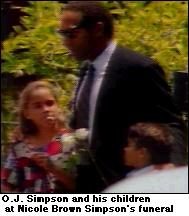
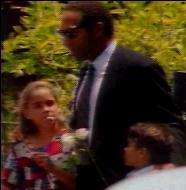
Adição de efeito nas imagens no css

diff --git a/css/envolvidos.css b/css/envolvidos.css
@@ -137,6 +137,7 @@ aside {
 }
 aside img { 
     width: 65%;
+    border-radius: 10px;
 }
 
 aside figcaption { 
@@ -202,6 +203,7 @@ div.dados-ronald {
 
 aside.foto img.foto-his {
     padding: 20px;
+    border-radius: 30px;
 }
 
 section div:last-child {

diff --git a/css/as-transcricoes.css b/css/as-transcricoes.css
@@ -142,6 +142,7 @@ h1 {
 /* informações dos acontecimento */
 
 section img.foto-section {
+    border-radius: 65px;
     width: 100%;
     padding-top: 40px;
     padding-bottom: 40px;

diff --git a/css/a-prisao.css b/css/a-prisao.css
@@ -135,6 +135,7 @@ aside {
 }
 aside img { 
     width: 65%;
+    border-radius: 10px;
 }
 
 aside figcaption { 

diff --git a/css/as-evidencias.css b/css/as-evidencias.css
@@ -165,4 +165,5 @@ div.box {
 
 .evidencia {
     width: 260px;
+    border-radius: 10px;
 }
